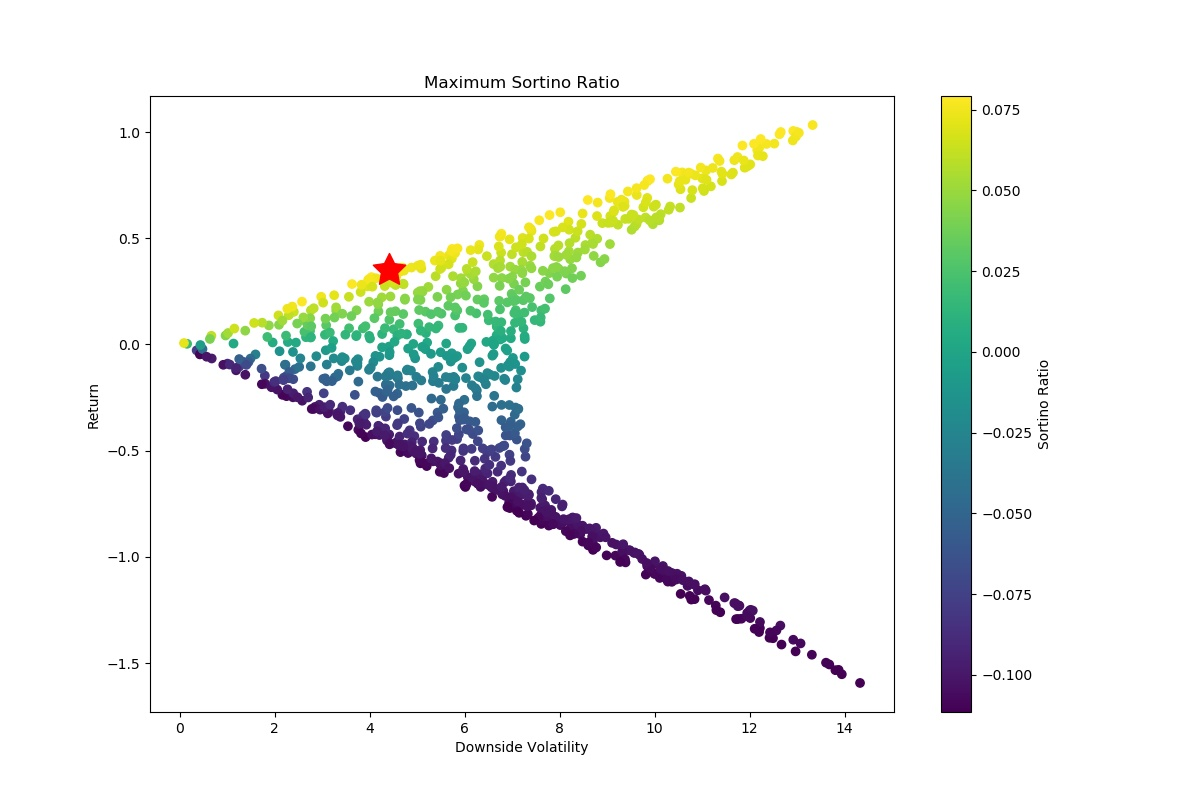
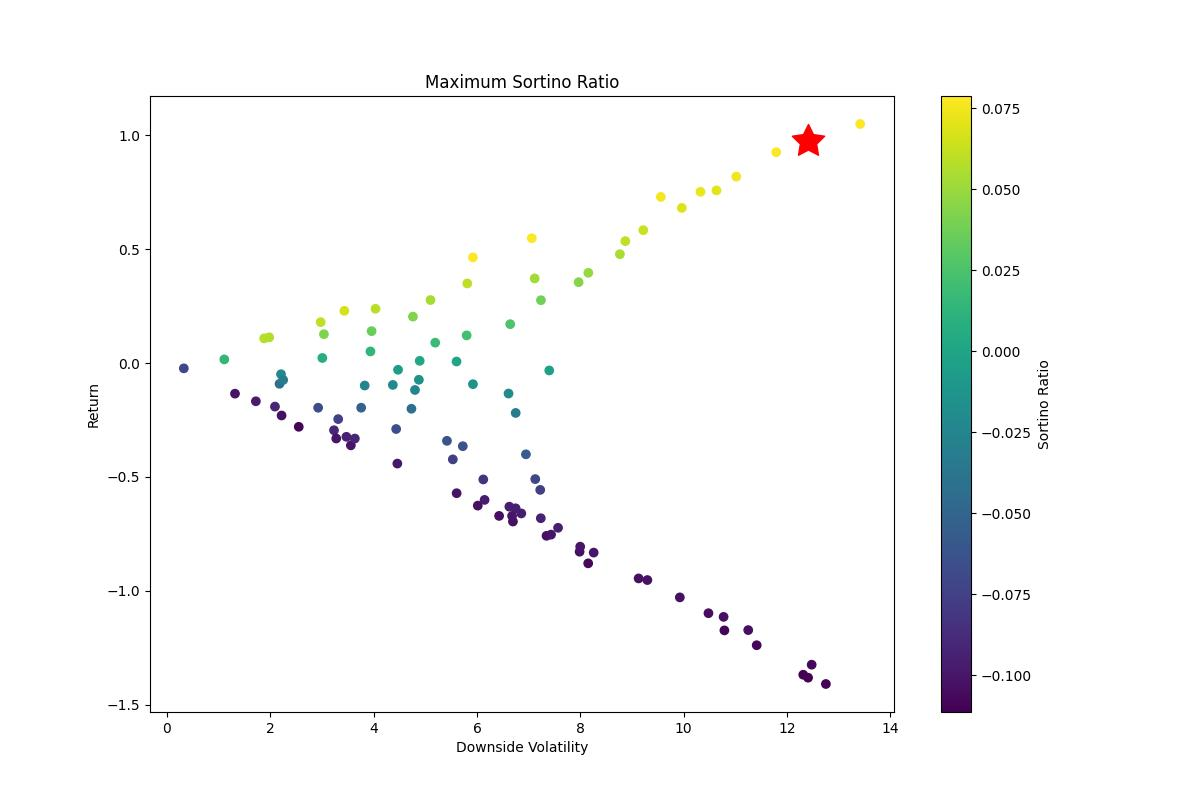
100 trials brady

diff --git a/day.py b/day.py
@@ -125,8 +125,8 @@ def day_main():
     yesterdayMuG = 0
     netReturns = 0
 
-    bitcoinDF = pd.read_csv('/home/lfickling/Spring 22/MCM/MCM-BitcoinGold/data_frames/bitcoin_dfnew.csv')
-    goldDF = pd.read_csv('/home/lfickling/Spring 22/MCM/MCM-BitcoinGold/data_frames/gold_dfnew.csv')
+    bitcoinDF = pd.read_csv('/home/brady/repos/MCM-BitcoinGold/data_frames/bitcoin_dfnew.csv')
+    goldDF = pd.read_csv('/home/brady/repos/MCM-BitcoinGold/data_frames/gold_dfnew.csv')
 
     comparedReturns["date"].append(bitcoinDF.iloc[0,2])
     comparedReturns["date"].append(bitcoinDF.iloc[1,2])

diff --git a/projReturn.py b/projReturn.py
@@ -13,7 +13,7 @@ class ProjReturn():
     averageTomorrowPrice = 0
     
 
-    def __init__(self,sigma=0.0, mu=0.0, price = 0.0, k = 1000):
+    def __init__(self,sigma=0.0, mu=0.0, price = 0.0, k = 100):
         self.sigma = sigma
         self.mu = mu
         sumReturns = 0

diff --git a/optimalPortfolio.py b/optimalPortfolio.py
@@ -17,7 +17,7 @@ from projReturn import ProjReturn
 
 
 # of simulation runs
-num_runs = 1000
+num_runs = 100
 
 class Portfolio():
 
